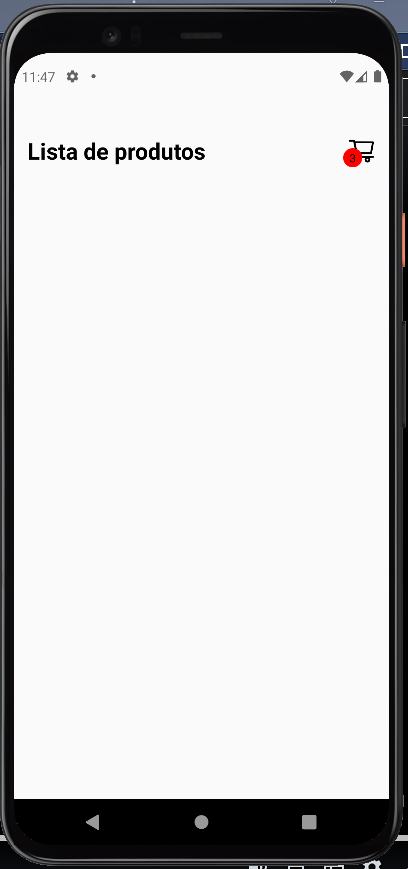
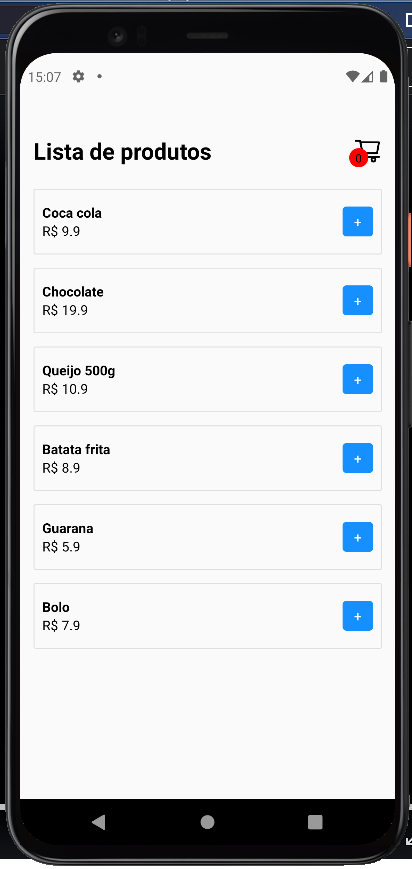
C2 - Listando produtos

diff --git a/src/pages/Home/index.js b/src/pages/Home/index.js
@@ -1,12 +1,19 @@
 /**
  * Home
  */
-import React, { useState } from "react";
+import React, { useState, useContext } from "react";
 import { View, Text, SafeAreaView, FlatList, TouchableOpacity } from "react-native";
 import { styles } from "./styles";
 import { AntDesign } from '@expo/vector-icons';
+import Product from "../../components/Product";
+import { useNavigation } from "@react-navigation/native";
+import { CartContext } from "../../components/contexts/CartContext";  //todos mundo tera acesso aos componentes do card
 
 export default function Home() {
+
+  const { carrinho } = useContext(CartContext)
+
+  const navigation = useNavigation();
 
   const [products, setProducts] = useState([
     {
@@ -46,14 +53,27 @@ export default function Home() {
       <View style={styles.cartContent}>
         <Text style={styles.title}>Lista de produtos</Text>
 
-        <TouchableOpacity style={styles.cardButton}>
+        <TouchableOpacity
+          onPress={() => navigation.navigate("Cart")}
+          style={styles.cardButton}
+        >
           <View style={styles.dot}>
-            <Text style={styles.dotText}>3</Text>
+            <Text style={styles.dotText}>
+              {carrinho?.length}
+            </Text>
           </View>
 
           <AntDesign name="shoppingcart" size={30} color="black" />
         </TouchableOpacity>
+
       </View>
+      <FlatList
+        style={styles.list}
+        data={products}
+        keyExtractor={(item) => String(item.id)}  //converte a lista em string
+        renderItem={({ item }) => <Product data={item} />}  //passa para o item as propriedades da lista
+      />
+
     </SafeAreaView>
   )
 }

diff --git a/App.js b/App.js
@@ -8,12 +8,15 @@ import React from "react";
 import { NavigationContainer } from "@react-navigation/native";
 import Routes from "./src/routes";
 import { StatusBar } from "react-native";
+import CartProvider from "./src/components/contexts/CartContext";  //todos mundo tera acesso aos componentes do card
 
-export default function App(){
-  return(
+export default function App() {
+  return (
     <NavigationContainer>
-      <StatusBar backgroundColor="#FAFAFA" barStyle="dark-content" />
-      <Routes />
+      <CartProvider>
+        <StatusBar backgroundColor="#FAFAFA" barStyle="dark-content" />
+        <Routes />
+      </CartProvider>
     </NavigationContainer>
   )
 }

diff --git a/src/components/Product/styles.js b/src/components/Product/styles.js
@@ -1,0 +1,33 @@
+import { StyleSheet } from "react-native"
+
+export const styles = StyleSheet.create({
+  container: {
+    borderWidth: 1,
+    borderColor: '#DFDFDF',
+    borderRadius: 2,
+    marginBottom: 14,
+    padding: 8,
+    paddingBottom: 14,
+    paddingTop: 14,
+    flexDirection: 'row',
+    alignItems: 'center',
+    justifyContent: 'space-between',
+  },
+  title: {
+    fontWeight: 'bold'
+  },
+  price: {
+
+  },
+  buttonAdd: {
+    paddingStart: 12,
+    paddingEnd: 12,
+    backgroundColor: '#168fff',
+    paddingTop: 6,
+    paddingBottom: 6,
+    borderRadius: 4,
+  },
+  buttonText: {
+    color: '#FFF',
+  },
+})

diff --git a/src/components/Product/index.js b/src/components/Product/index.js
@@ -1,0 +1,22 @@
+/**
+ * Produtos
+ * 
+ * recebe a lista do home/index.js
+ */
+import { View, Text, TouchableOpacity } from "react-native";
+import { styles } from "./styles";
+
+export default function Product({ data }) {  //({ data }) pega as propriedades da lista home/index.js
+  return (
+    <View style={styles.container}>
+      <View>
+        <Text style={styles.title}>{data.name}</Text>
+        <Text style={styles.price}>R$ {data.price}</Text>
+      </View>
+
+      <TouchableOpacity style={styles.buttonAdd}>
+        <Text style={styles.buttonText}>+</Text>
+      </TouchableOpacity>
+    </View>
+  )
+}

diff --git a/src/components/contexts/CartContext.js b/src/components/contexts/CartContext.js
@@ -1,0 +1,22 @@
+/**
+ * Contexto para armazenar as informações do carrinho
+ * 
+ * todos mundo tera acesso aos componentes do card
+ */
+import React, { useState, createContext } from "react";
+
+export const CartContext = createContext({})
+
+function CartProvider({ children }) {
+  const [carrinho, setCarrinho] = useState([]);
+
+  return (
+    <CartContext.Provider
+      value={{ carrinho }}
+    >
+      {children}
+    </CartContext.Provider>
+  )
+}
+
+export default CartProvider;

diff --git a/src/pages/Home/styles.js b/src/pages/Home/styles.js
@@ -36,4 +36,7 @@ export const styles = StyleSheet.create({
   dotText: {
     fontSize: 12,
   },
+  list: {
+
+  },
 })
